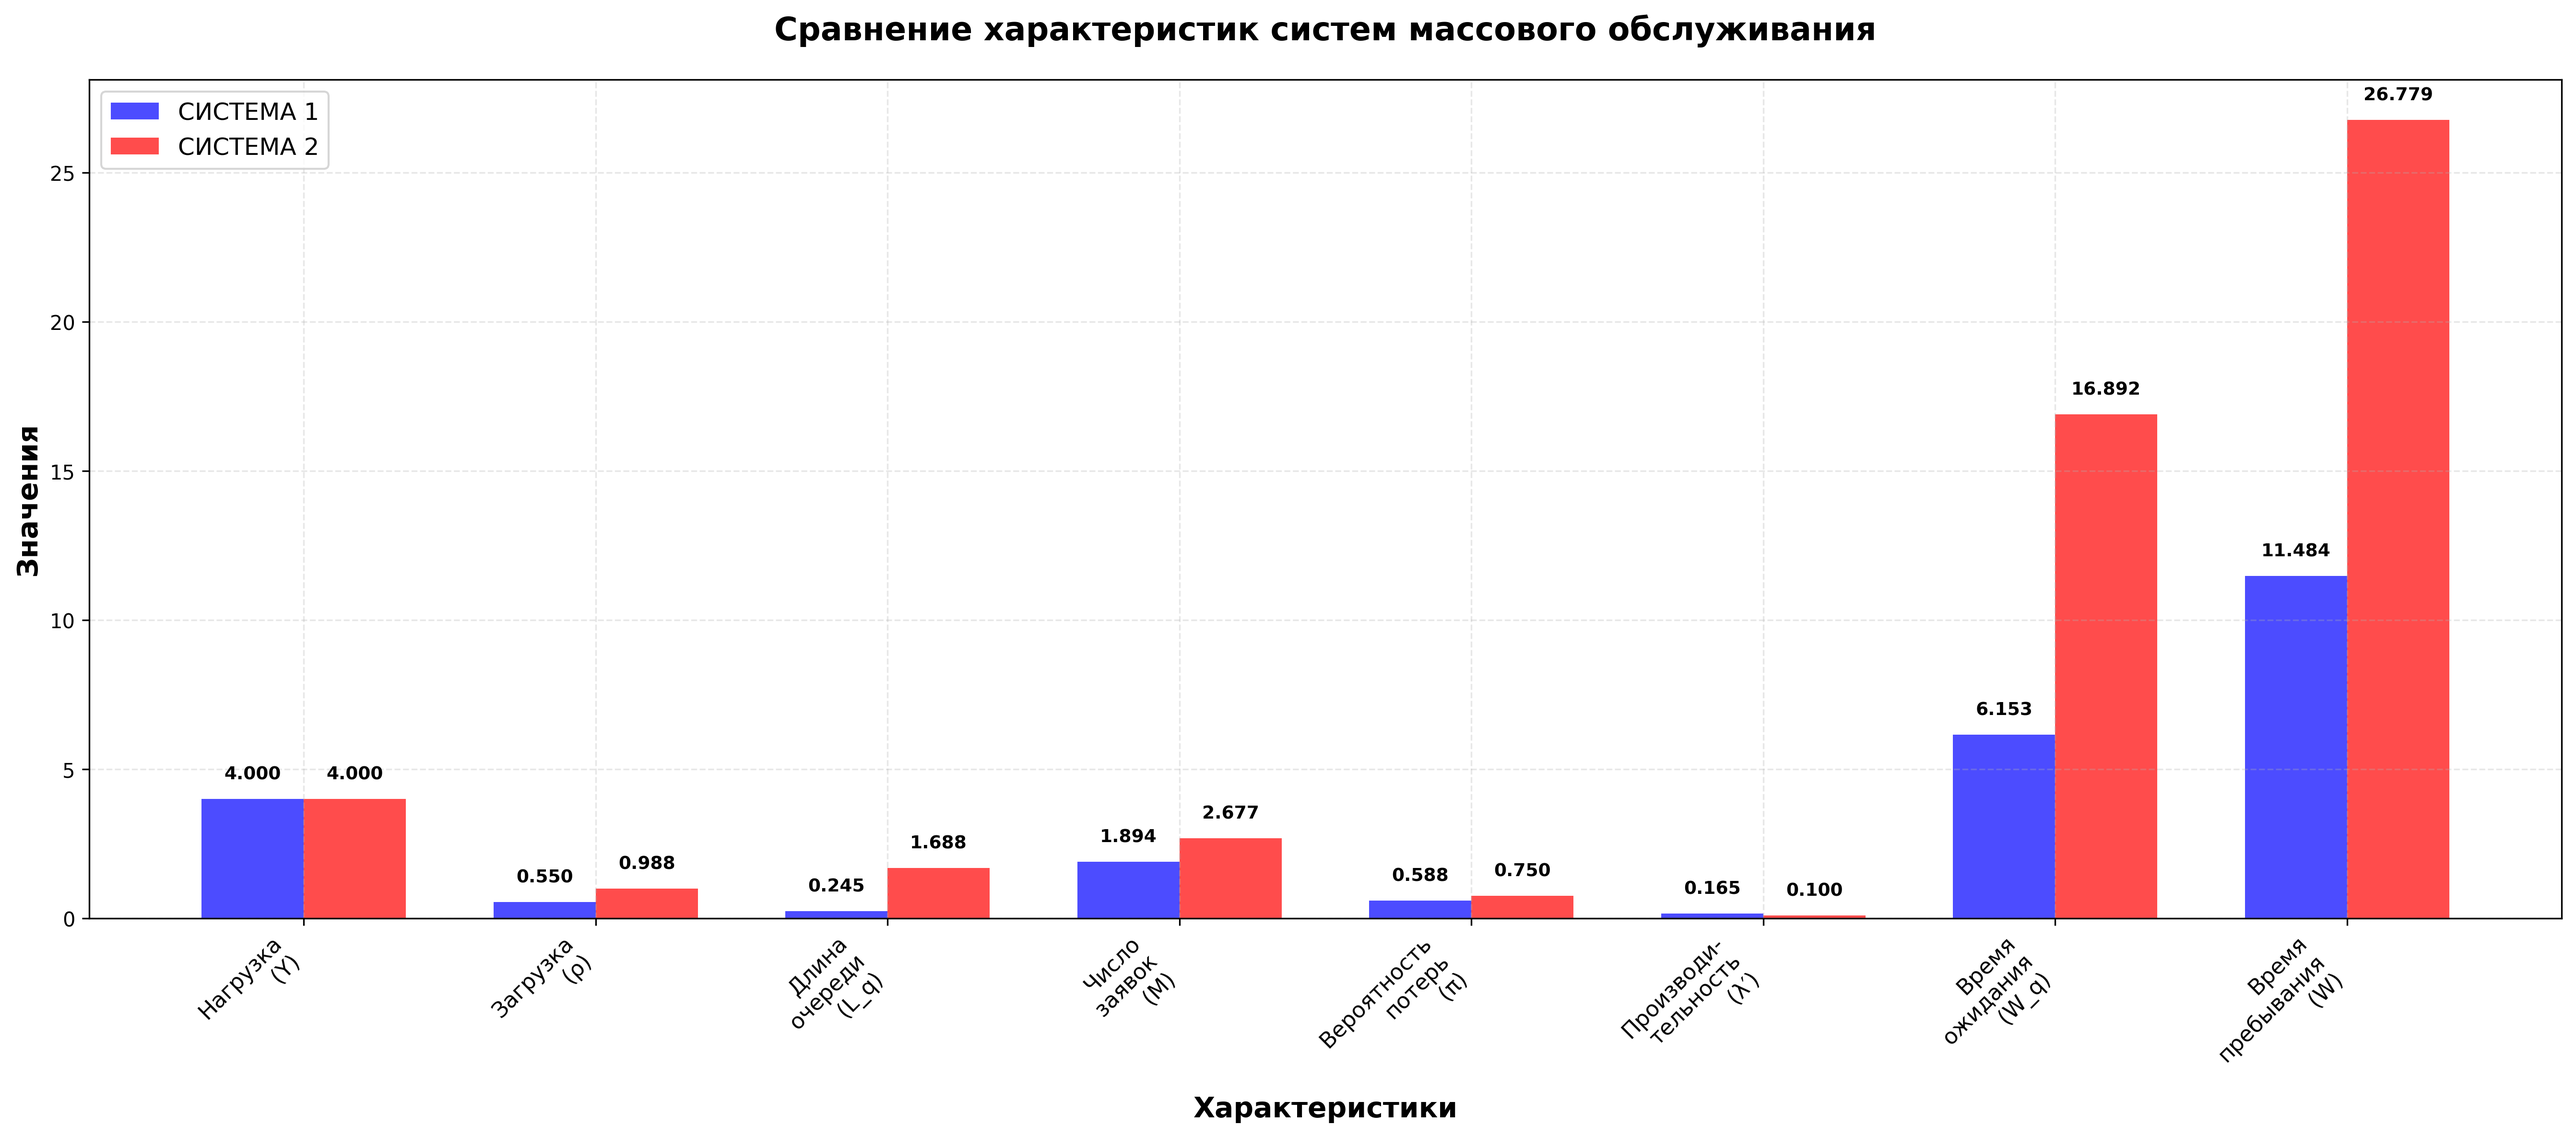
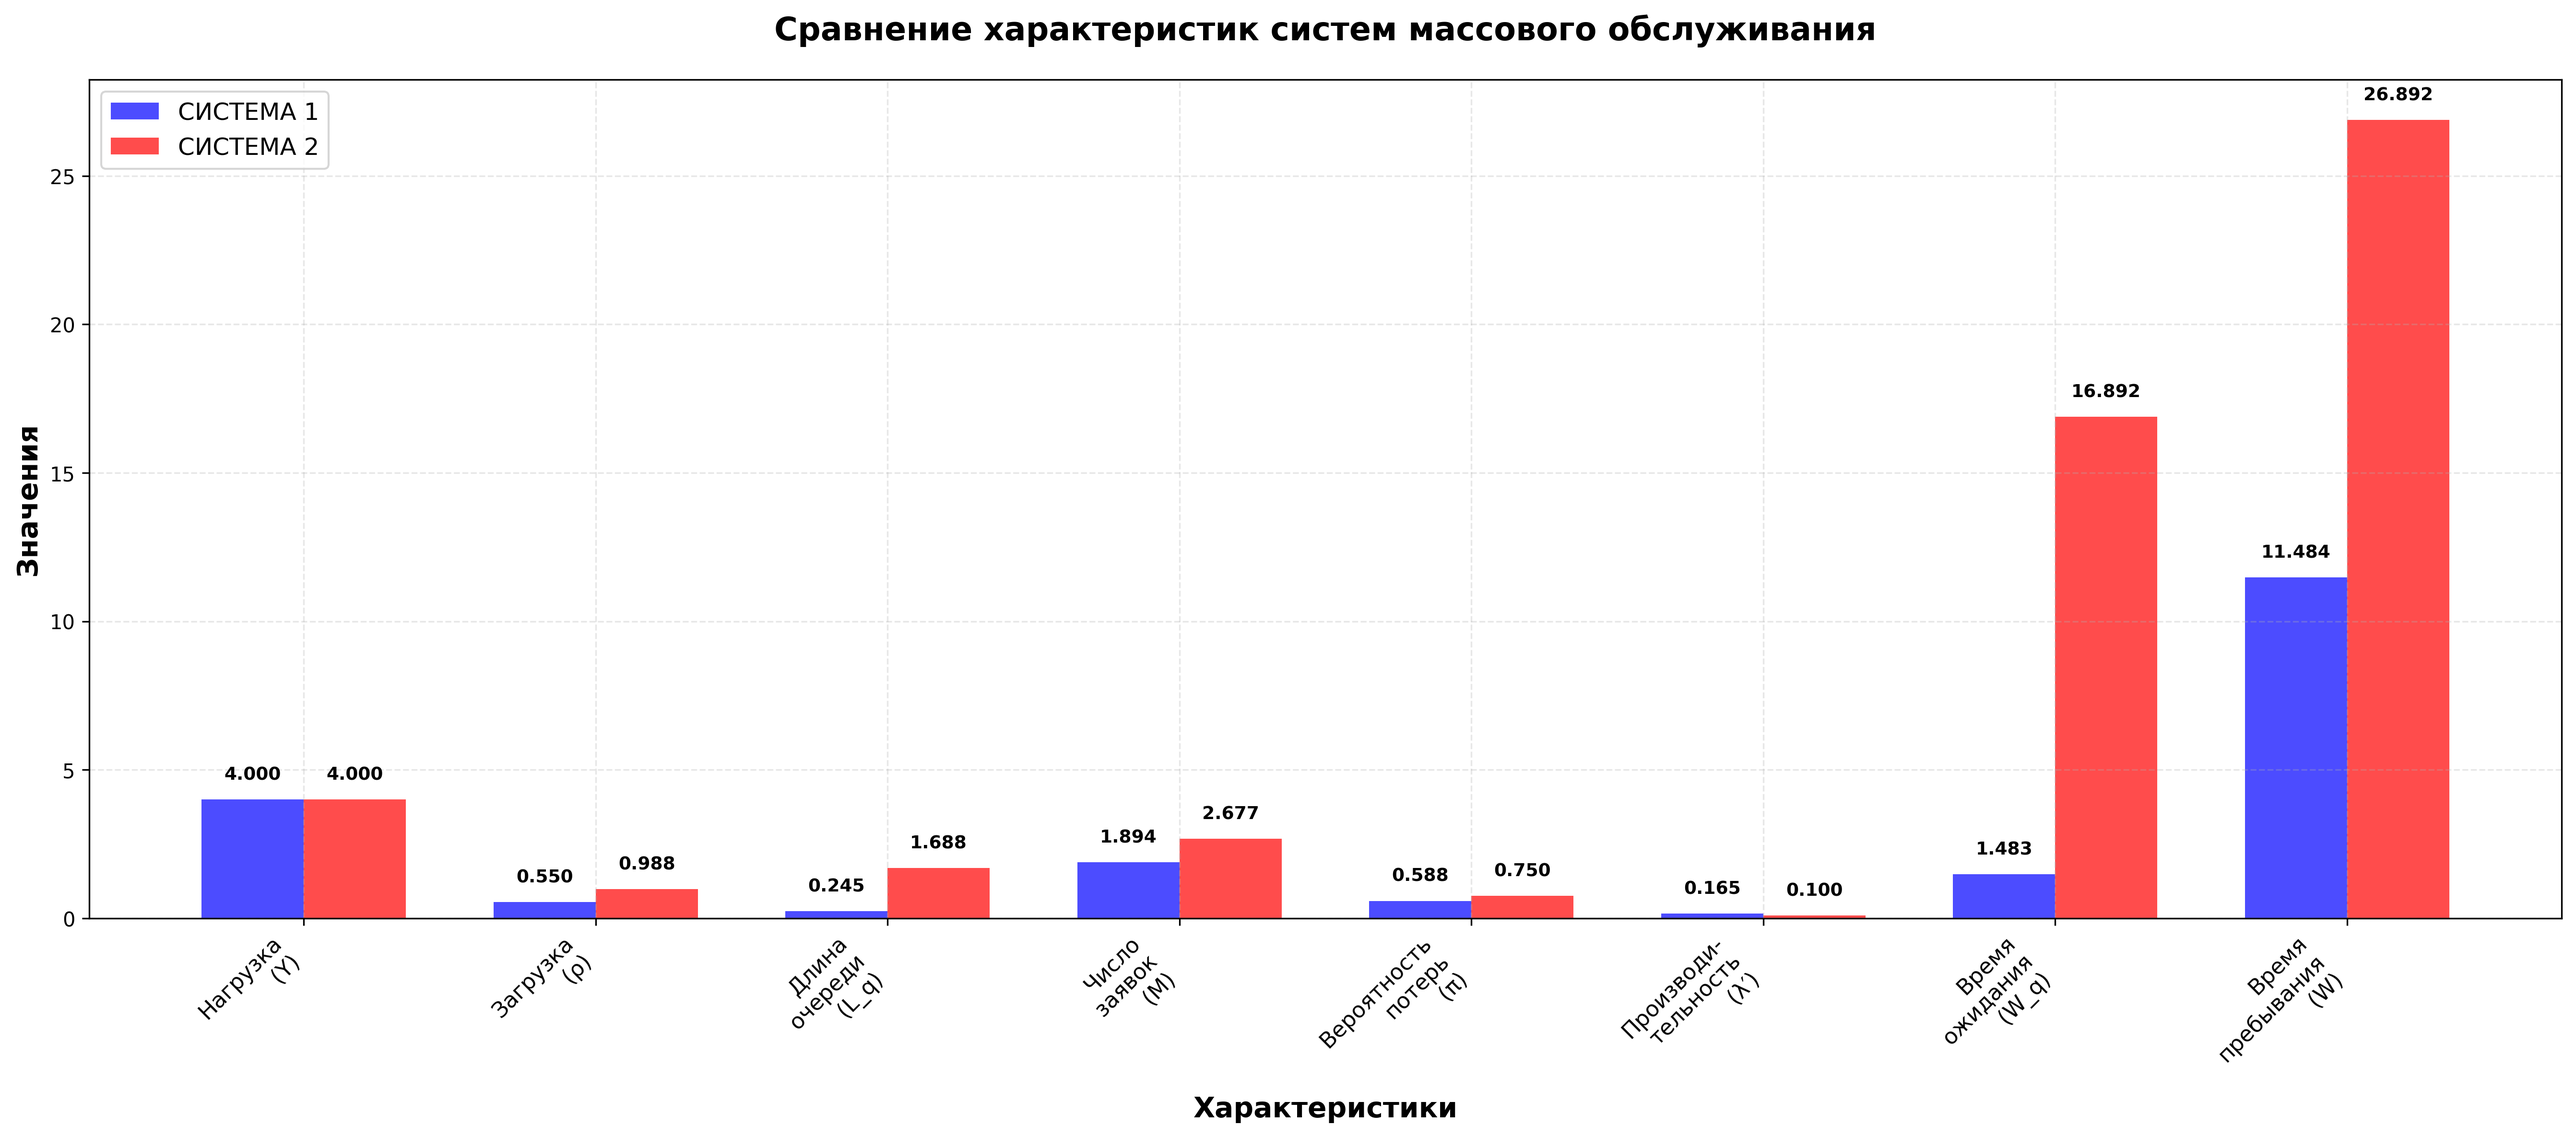
fix: fixed formulas

Changed region(s): [[0.7464, 0.6242, 0.8086, 0.7803], [0.8086, 0.3433, 0.8397, 0.3745]]

diff --git a/lab2/scripts/system1.py b/lab2/scripts/system1.py
@@ -129,11 +129,13 @@ def calculate_characteristics_system1():
     w_q1 = 0.0  # У П1 нет очереди
     w_q2 = l_q2 / lam_eff2 if lam_eff2 > 0 else 0.0  # Время ожидания у П2
     w_q3 = 0.0  # У П3 нет очереди
+    w_q_total = l_q_total / lam_eff_total
 
     print("\nВремя ожидания:")
     print(f"  П1: W_q1 = 0 (нет очереди)")
     print(f"  П2: W_q2 = L_q2 / λ′₂ = {l_q2:.4f} / {lam_eff2:.4f} = {w_q2:.4f} с")
     print(f"  П3: W_q3 = 0 (нет очереди)")
+    print(f"  Общее: Wq = L_q / λ′ = {l_q_total:.4f} / {lam_eff_total:.4f} = {w_q_total:.4f} с")
 
     # 8. ВРЕМЯ ПРЕБЫВАНИЯ
     w1 = m1 / lam_eff1 if lam_eff1 > 0 else 0.0  # Время пребывания у П1
@@ -142,10 +144,10 @@ def calculate_characteristics_system1():
     w_total = m_total / lam_eff_total if lam_eff_total > 0 else 0.0
 
     print("\nВремя пребывания:")
-    print(f"  П1: W₁ = M₁ / λ′₁ = {m1:.4f} / {lam_eff1:.4f} = {w1:.4f} с")
-    print(f"  П2: W₂ = M₂ / λ′₂ = {m2:.4f} / {lam_eff2:.4f} = {w2:.4f} с")
-    print(f"  П3: W₃ = M₃ / λ′₃ = {m3:.4f} / {lam_eff3:.4f} = {w3:.4f} с")
-    print(f"  Общее: W = M / λ′ = {m_total:.4f} / {lam_eff_total:.4f} = {w_total:.4f} с")
+    print(f"  П1: W₁ = W_q1 + b = {w_q1:.4f} + {b:.4f} = {w1:.4f} с")
+    print(f"  П2: W₂ = W_q2 + b = {w_q2:.4f} + {b:.4f} = {w2:.4f} с")
+    print(f"  П3: W₃ = W_q3 + b = {w_q3:.4f} + {b:.4f} = {w3:.4f} с")
+    print(f"  Общее: W = W_q + b = {w_q_total:.4f} + {b:.4f} = {w_total:.4f} с")
 
     # Проверка формулой Литтла
     print("\nПроверка формулой Литтла:")
@@ -167,7 +169,7 @@ def calculate_characteristics_system1():
         # Производительность
         'lam_eff1': lam_eff1, 'lam_eff2': lam_eff2, 'lam_eff3': lam_eff3, 'lam_eff_total': lam_eff_total,
         # Время ожидания
-        'w_q1': w_q1, 'w_q2': w_q2, 'w_q3': w_q3,
+        'w_q1': w_q1, 'w_q2': w_q2, 'w_q3': w_q3, 'w_q_total': w_q_total,
         # Время пребывания
         'w1': w1, 'w2': w2, 'w3': w3, 'w_total': w_total
     }

diff --git a/lab2/scripts/comparison.py b/lab2/scripts/comparison.py
@@ -31,7 +31,7 @@ def calculate_relative_difference(sys1, sys2):
     characteristics_better_lower = {
         'Вероятность потерь (π)': (sys1['p_loss_total'], sys2['p_loss_total']),
         'Ср. время пребывания (W)': (sys1['w_total'], sys2['w_total']),
-        'Ср. время ожидания (W_q)': (sys1['w_q2'], sys2['w_q']),
+        'Ср. время ожидания (W_q)': (sys1['w_q_total'], sys2['w_q']),
         'Ср. число заявок (M)': (sys1['m_total'], sys2['m_total']),
         'Длина очереди (L_q)': (sys1['l_q_total'], sys2['l_q_total'])
     }
@@ -125,7 +125,7 @@ def create_comparison_chart(sys1, sys2):
         sys1['m_total'],  # Число заявок суммарное
         sys1['p_loss_total'],  # Вероятность потерь общая
         sys1['lam_eff_total'],  # Производительность общая
-        sys1['w_q2'],  # Время ожидания (для П2, где есть очередь)
+        sys1['w_q_total'],  # Время ожидания (для П2, где есть очередь)
         sys1['w_total']  # Время пребывания общее
     ]
 
@@ -193,7 +193,7 @@ def compare_systems():
     print(f"{'Число заявок (M)':<25} {sys1['m_total']:<12.4f} {sys2['m_total']:<12.4f}")
     print(f"{'Вероятность потерь (π)':<25} {sys1['p_loss_total']:<12.4f} {sys2['p_loss_total']:<12.4f}")
     print(f"{'Производительность (λ′)':<25} {sys1['lam_eff_total']:<12.4f} {sys2['lam_eff_total']:<12.4f}")
-    print(f"{'Время ожидания (W_q)':<25} {sys1['w_q2']:<12.4f} {sys2['w_q']:<12.4f}")
+    print(f"{'Время ожидания (W_q)':<25} {sys1['w_q_total']:<12.4f} {sys2['w_q']:<12.4f}")
     print(f"{'Время пребывания (W)':<25} {sys1['w_total']:<12.4f} {sys2['w_total']:<12.4f}")
 
     # Расчет относительной разности

diff --git a/lab2/scripts/system2.py b/lab2/scripts/system2.py
@@ -25,7 +25,7 @@ print(f"  b1' = {b1_prime:.4f}, μ1 = {mu1:.4f}")
 print(f"  b2' = {b2_prime:.4f}, μ2 = {mu2:.4f}")
 print(f"  q1 = {q1:.2f}, q2 = {q2:.2f}")
 
-# Правильные коды: (П11, П12, O1) - фазы прибора и очередь перед ним
+# Стационарные вероятности из отчета
 p_stationary = [0.0117, 0.0469, 0.0030, 0.1875, 0.0008, 0.7499, 0.0002]
 codes = [
     (0, 0, 0),  # S0: прибор свободен, очередь пуста
@@ -115,13 +115,10 @@ def calculate_characteristics_system2():
     print(f"  W_q = L_q / λ′ = {l_q:.4f} / {lam_eff:.4f} = {w_q:.4f} с")
 
     # 8. ВРЕМЯ ПРЕБЫВАНИЯ
-    if lam_eff > 0:
-        w_system = m_system / lam_eff
-    else:
-        w_system = 0
+    w_system = w_q + b  # Время пребывания = время ожидания + время обслуживания
 
     print("\nВремя пребывания:")
-    print(f"  W = M / λ′ = {m_system:.4f} / {lam_eff:.4f} = {w_system:.4f} с")
+    print(f"  W = W_q + b = {w_q:.4f} + {b:.4f} = {w_system:.4f} с")
 
     # Дополнительная информация о фазах
     rho11 = safe_sum(p11_busy)  # Загрузка фазы П11
